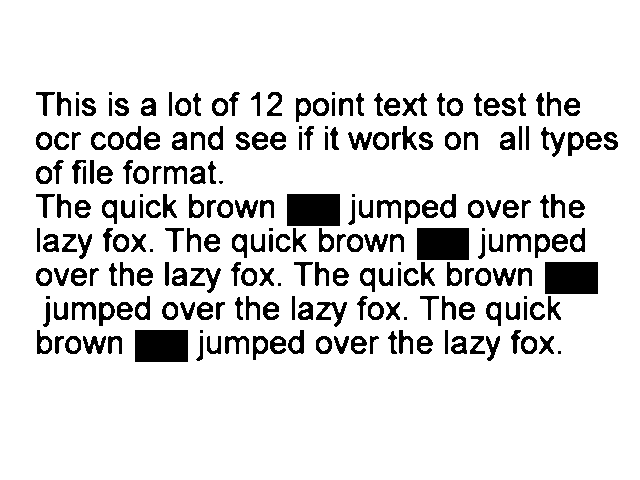
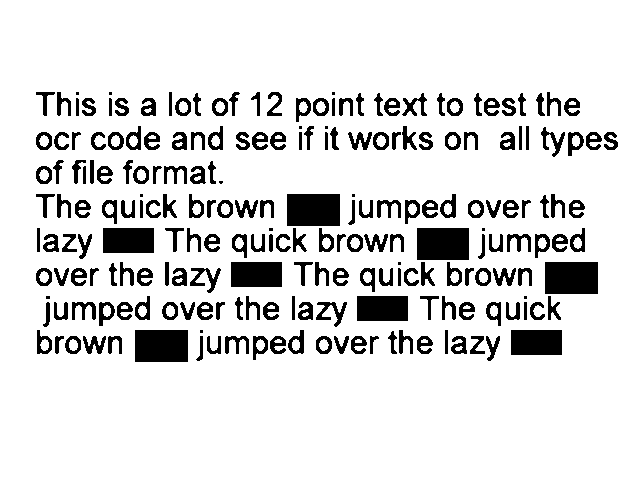
ignore nonalphanum chars in words

diff --git a/project.cpp b/project.cpp
@@ -9,6 +9,21 @@ using namespace std;
 using namespace cv;
 using namespace tesseract;
 
+string normalize(string word) {
+  //Make whole word lowercase, ignore case sensitivity
+  transform(word.begin(), word.end(), word.begin(), ::tolower);
+
+  //Remove all non-alphanumeric characters from word
+  for (auto it = word.begin(); it != word.end(); it++) {
+    if (!isalnum(word.at(it - word.begin()))) {
+      word.erase(it);
+      it--;
+    }
+  }
+
+  return word;
+}
+
 int main(int argc, char* argv[]) {
   //Check for correct number of arguments
   if (argc != 4) {
@@ -78,12 +93,12 @@ int main(int argc, char* argv[]) {
     int space_pos = censoredWords.find(" ", current_pos);
     if (space_pos != string::npos) {
       string censoredWord = censoredWords.substr(current_pos, space_pos - current_pos);
-      transform(censoredWord.begin(), censoredWord.end(), censoredWord.begin(), ::tolower);
+      censoredWord = normalize(censoredWord);
       censorList.push_back(censoredWord);
       current_pos = space_pos + 1;
     } else {
       string censoredWord = censoredWords.substr(current_pos);
-      transform(censoredWord.begin(), censoredWord.end(), censoredWord.begin(), ::tolower);
+      censoredWord = normalize(censoredWord);
       censorList.push_back(censoredWord);
       break;
     }
@@ -100,18 +115,16 @@ int main(int argc, char* argv[]) {
   //Go through every word detected
   if (it != 0) {
     do {
-      //Detect coordinates from image using Tesseract
+      //Detect bounding box coordinates from image using Tesseract
       string word = string(it->GetUTF8Text(level));
       int tlx, tly, brx, bry;
       it->BoundingBox(level, &tlx, &tly, &brx, &bry);
 
-      //Print word information (DEBUG)
+      //Print coordinate information (DEBUG)
       // cout << "word: '" << word << "'; Coords: (" << tlx << "," << tly << "),
       // (" << brx << ", " << bry << ") " << endl;
 
-      //Ignore case sensitivity
-      transform(word.begin(), word.end(), word.begin(), ::tolower);
-      //TODO Remove non-alphanumeric characters from Tesseract's word list
+      word = normalize(word);
 
       //Draw censor box on word if it matches with list
       for (int i = 0; i < censorList.size(); i++) {
@@ -132,6 +145,7 @@ int main(int argc, char* argv[]) {
   destroyWindow("Output");
 
   ocr->End();
+  //Save output image
   imwrite(argv[3], image_censored);
   return 0;
 }
